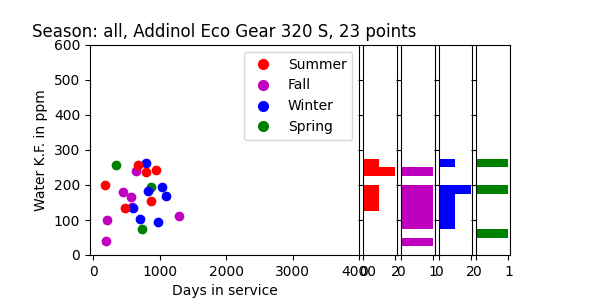
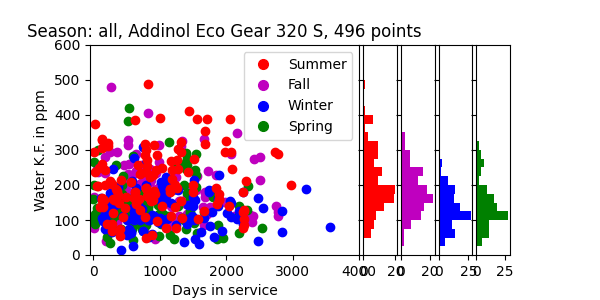
Sep 29, 2022, 8:29 PM

diff --git a/project/project.py b/project/project.py
@@ -8,7 +8,7 @@ fn2 = f"{path_proj}/dataset2.csv"
 #fn3 = f"{path_proj}/project/dataset3.csv"
 fn3 = "dataset3.csv"
 
-fn_list = [fn3]
+fn_list = [fn1, fn2]
 
 def main():
     ds_list = []
